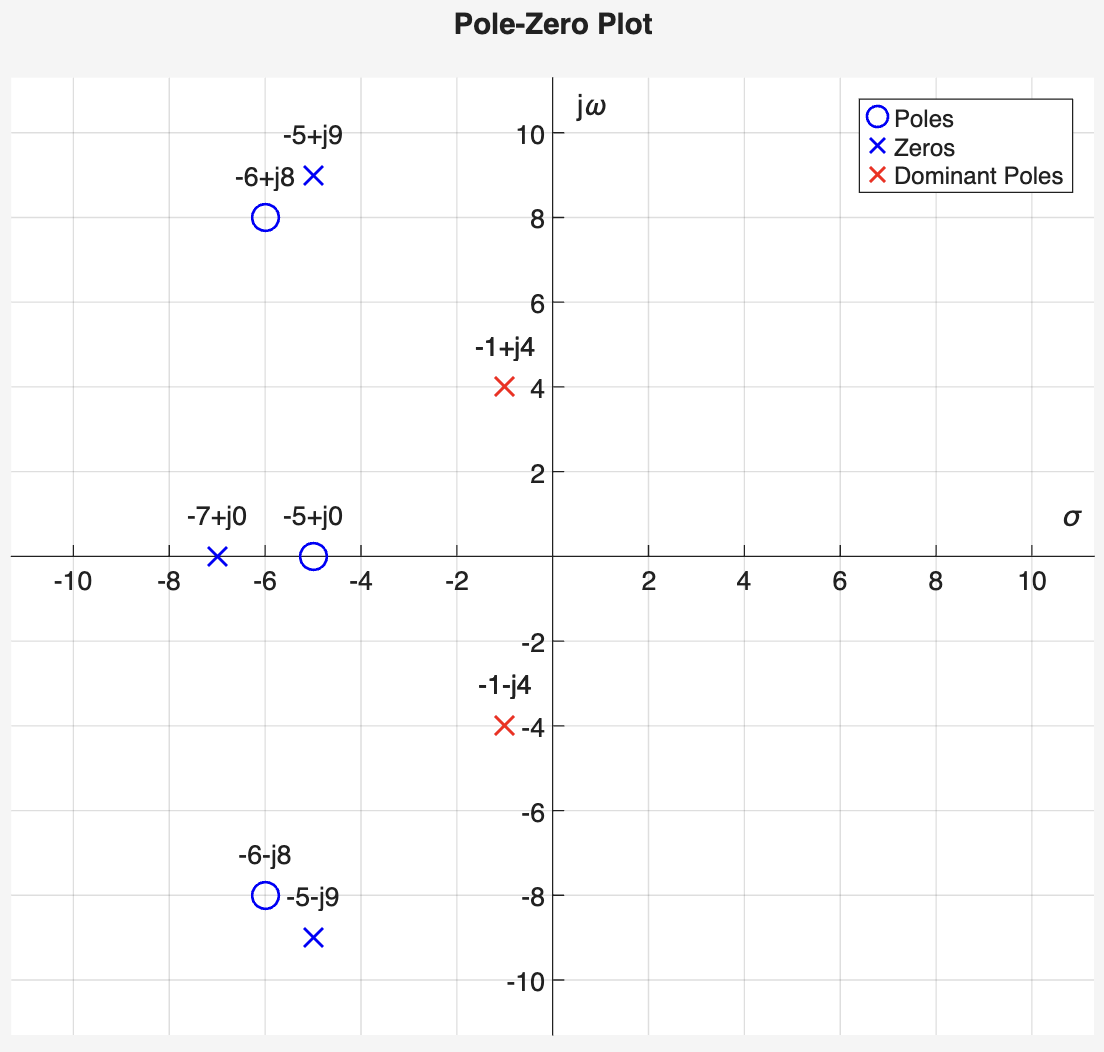
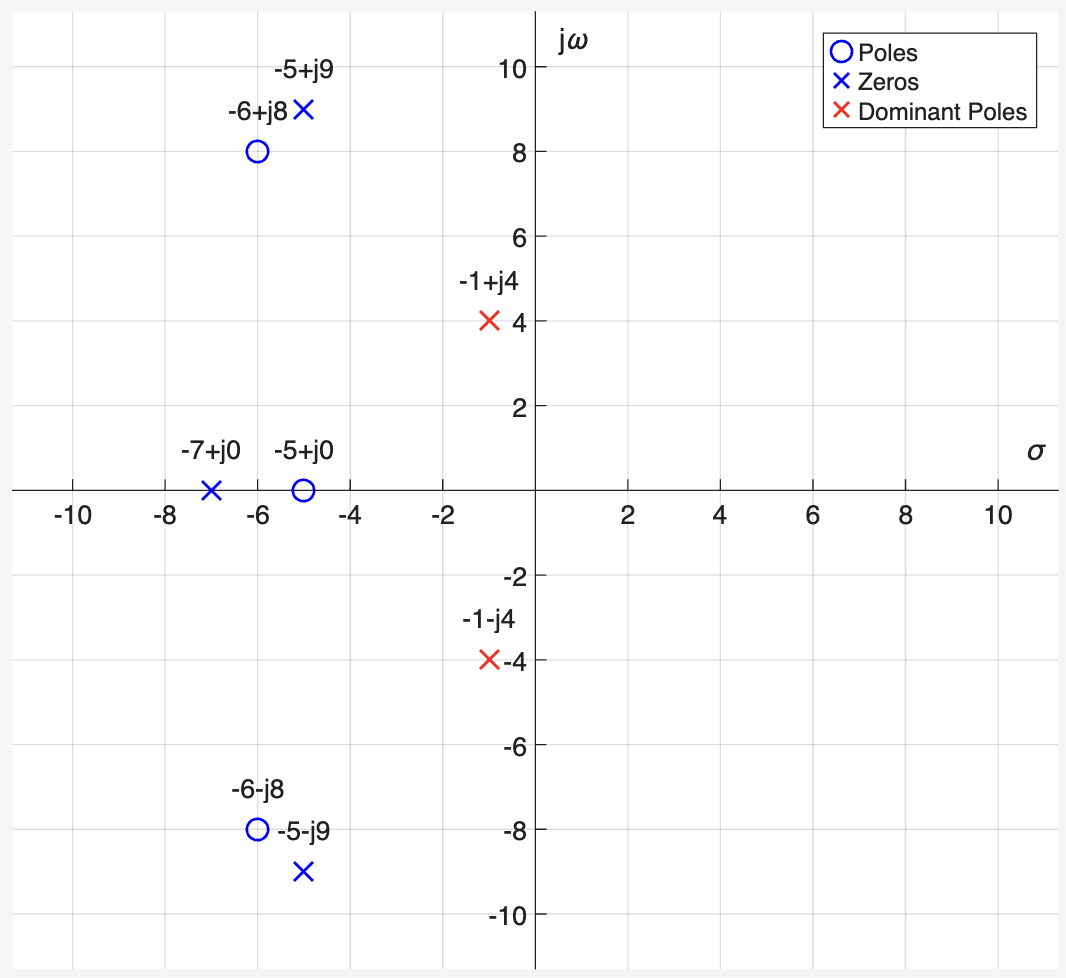
added xlines, ylines

diff --git a/group_28.m b/group_28.m
@@ -1,29 +1,3 @@
-%% Work in Progress - Allan Wu (23810308)
-
-%% Define transfer function
-% This section uses MATLAB Symbolic Math toolbox to generate coefficients of polynomials.
-% It should be removed before the submission, once we decide on the transfer function to use.
-% Edit these expressions to try different transfer functions: DOMINANT_POLES, HIGHER_ORDER_POLES, ZEROS
-
-% Set DC gain (set this to 1 to easily read percentage overshoot)
-DC_GAIN = 100;
-syms s
-% Set dominant poles (complex conjugate pair)
-DOMINANT_POLES = (s+1-4j) * (s+1+4j);
-% Add nondominant poles for higher-order transfer function
-HIGHER_ORDER_POLES = (s+7) * (s+5-9j) * (s+5+9j) ...
-    * DOMINANT_POLES;
-% Add zeros into higher-order transfer function
-ZEROS = (s+5)*(s+6+8j)*(s+6-8j);
-
-K = 1/DC_GAIN * (subs(expand(ZEROS), s, 0) / subs(expand(HIGHER_ORDER_POLES), s, 0));
-denominator1 = sym2poly(K * expand(HIGHER_ORDER_POLES));
-numerator1 = sym2poly(expand(ZEROS));
-
-denominator2 = sym2poly(expand(DOMINANT_POLES));
-numerator2 = sym2poly(DC_GAIN * denominator2(end) + 0*s);
-
-
 %% Functions for time-domain and s-domain analysis
 % Inputs: 2 transfer functions, given as arrays of numerator/denominator coefficients (descending powers)
 % We define functions to get the following: 
@@ -32,15 +6,40 @@ numerator2 = sym2poly(DC_GAIN * denominator2(end) + 0*s);
 % - Print the transient response parameters (PO, td, tr, ts, ess)
 % - Print the s-domain parameters (wn, zeta) for each complex conjugate pole pair
 
+NUM1 = [12614 214438 2018240 6307000];
+DEN1 = [5 95 1135 6915 22385 63070];
+NUM2 = [1700];
+DEN2 = [1 2 17];
+
 function plot_step_response(n1, d1, n2, d2)
     sys1 = tf(n1, d1);
     sys2 = tf(n2, d2);
     % Use stepplot function provided by Control System Toolbox (unit step response)
     figure;
     stepplot(sys1, sys2);
-    legend('Higher Order System', 'Dominant Poles Approximation');
     grid;
-    % TODO: Label the plot better...
+    legend('Higher Order System', 'Dominant Poles Approximation');
+    hold;
+    yss = n1(end) / d1(end);
+    yline([yss*0.9 yss yss*1.1], '--', {'0.9y_{ss}', 'y_{ss}', '1.1y_{ss}'}, ...
+        'HandleVisibility', 'off', 'Color', '#000000');
+    [y1, t] = step(sys1);
+    [y2, ~] = step(sys2);
+    [ymax1, tpeak1] = max(y1);
+    [ymax2, tpeak2] = max(y2);
+    yline(ymax1, 'LineStyle', '-.', 'HandleVisibility', 'off', 'Color', '#1171BE', ...
+        'Label', sprintf('%.1f', ymax1), ...
+        'LabelHorizontalAlignment', 'left', 'LabelVerticalAlignment', 'middle');
+    yline(ymax2, 'LineStyle', '-.', 'HandleVisibility', 'off', 'Color', '#DD5400', ...
+        'Label', sprintf('%.1f', ymax2), ...
+        'LabelHorizontalAlignment', 'left', 'LabelVerticalAlignment', 'middle');
+    xline(t(tpeak1), 'LineStyle', '-.', 'Color', '#1171BE', 'HandleVisibility', 'off', ...
+        'Label', sprintf('%.3f', t(tpeak1)), ...
+        'LabelHorizontalAlignment', 'left', 'LabelVerticalAlignment', 'bottom');
+    xline(t(tpeak2), 'LineStyle', '-.', 'Color', '#DD5400', 'HandleVisibility', 'off', ...
+        'Label', sprintf('%.3f', t(tpeak2)), ...
+        'LabelHorizontalAlignment', 'right', 'LabelVerticalAlignment', 'bottom');
+    plot([t(tpeak1); t(tpeak2)], [ymax1; ymax2], 'k.', 'HandleVisibility', 'off');
 end
 
 function plot_poles_zeros(n1, d1, d2)
@@ -64,12 +63,12 @@ function plot_poles_zeros(n1, d1, d2)
     ylim([-max_extent max_extent]);
     % Plot poles and zeros with appropriate markers
     hold on;
-    plot(real(zeros), imag(zeros), 'bo', 'MarkerSize', 10, 'LineWidth', 1);
+    plot(real(zeros), imag(zeros), 'bo', 'MarkerSize', 8, 'LineWidth', 1);
     plot(real(poles), imag(poles), 'bx', 'MarkerSize', 10, 'LineWidth', 1);
     plot(real(dominantpoles), imag(dominantpoles), 'rx', 'MarkerSize', 10, 'LineWidth', 1);
     legend('Poles', 'Zeros', 'Dominant Poles')
     % Add coordinate labels to all points
-    poi = [zeros; poles; dominantpoles];
+    poi = [zeros; poles];
     signs = repmat("+", size(poi));
     signs(imag(poi) < 0) = "-";
     labels = compose("%.0f%sj%.0f", real(poi), signs, abs(imag(poi)));
@@ -89,11 +88,11 @@ function get_s_domain_parameters(n1, d1, n2, d2)
 end
 
 fprintf("Higher order transfer function:")
-T_s = tf(numerator1, denominator1)
+T_s = tf(NUM1, DEN1)
 
 fprintf("Simplified lower order transfer function:")
-Tdp_s = tf(numerator2, denominator2)
+Tdp_s = tf(NUM2, DEN2)
 
 % Call functions
-plot_step_response(numerator1, denominator1, numerator2, denominator2)
-plot_poles_zeros(numerator1, denominator1, denominator2)
+plot_step_response(NUM1, DEN1, NUM2, DEN2)
+plot_poles_zeros(NUM1, DEN1, DEN2)

diff --git a/test_transfer.m b/test_transfer.m
@@ -38,9 +38,29 @@ function plot_step_response(n1, d1, n2, d2)
     % Use stepplot function provided by Control System Toolbox (unit step response)
     figure;
     stepplot(sys1, sys2);
-    legend('Higher Order System', 'Dominant Poles Approximation');
     grid;
-    % TODO: Label the plot better...
+    legend('Higher Order System', 'Dominant Poles Approximation');
+    hold;
+    yss = n1(end) / d1(end);
+    yline([yss*0.9 yss yss*1.1], '--', {'0.9y_{ss}  ', 'y_{ss}  ', '1.1y_{ss}  '}, ...
+        'HandleVisibility', 'off', 'Color', '#000000');
+    [y1, t] = step(sys1);
+    [y2, ~] = step(sys2);
+    [ymax1, tpeak1] = max(y1);
+    [ymax2, tpeak2] = max(y2);
+    yline(ymax1, 'LineStyle', '-.', 'HandleVisibility', 'off', 'Color', '#1171BE', ...
+        'Label', sprintf('%.1f', ymax1), ...
+        'LabelHorizontalAlignment', 'left', 'LabelVerticalAlignment', 'middle');
+    yline(ymax2, 'LineStyle', '-.', 'HandleVisibility', 'off', 'Color', '#DD5400', ...
+        'Label', sprintf('%.1f', ymax2), ...
+        'LabelHorizontalAlignment', 'left', 'LabelVerticalAlignment', 'middle');
+    xline(t(tpeak1), 'LineStyle', '-.', 'Color', '#1171BE', 'HandleVisibility', 'off', ...
+        'Label', sprintf('  %.3f', t(tpeak1)), ...
+        'LabelHorizontalAlignment', 'left', 'LabelVerticalAlignment', 'bottom');
+    xline(t(tpeak2), 'LineStyle', '-.', 'Color', '#DD5400', 'HandleVisibility', 'off', ...
+        'Label', sprintf('  %.3f', t(tpeak2)), ...
+        'LabelHorizontalAlignment', 'right', 'LabelVerticalAlignment', 'bottom');
+    plot([t(tpeak1); t(tpeak2)], [ymax1; ymax2], 'k.', 'HandleVisibility', 'off');
 end
 
 function plot_poles_zeros(n1, d1, d2)
@@ -64,12 +84,12 @@ function plot_poles_zeros(n1, d1, d2)
     ylim([-max_extent max_extent]);
     % Plot poles and zeros with appropriate markers
     hold on;
-    plot(real(zeros), imag(zeros), 'bo', 'MarkerSize', 10, 'LineWidth', 1);
+    plot(real(zeros), imag(zeros), 'bo', 'MarkerSize', 8, 'LineWidth', 1);
     plot(real(poles), imag(poles), 'bx', 'MarkerSize', 10, 'LineWidth', 1);
     plot(real(dominantpoles), imag(dominantpoles), 'rx', 'MarkerSize', 10, 'LineWidth', 1);
     legend('Poles', 'Zeros', 'Dominant Poles')
     % Add coordinate labels to all points
-    poi = [zeros; poles; dominantpoles];
+    poi = [zeros; poles];
     signs = repmat("+", size(poi));
     signs(imag(poi) < 0) = "-";
     labels = compose("%.0f%sj%.0f", real(poi), signs, abs(imag(poi)));
